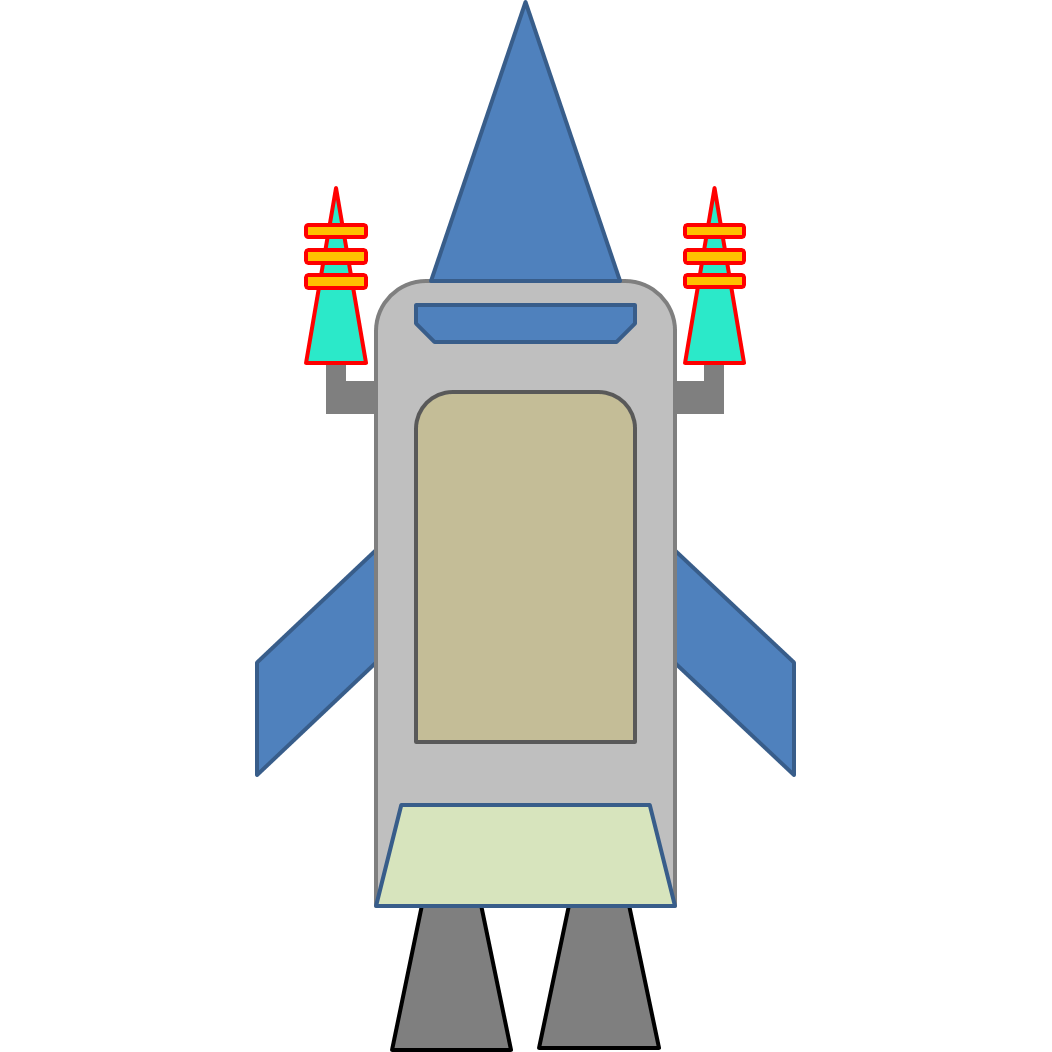
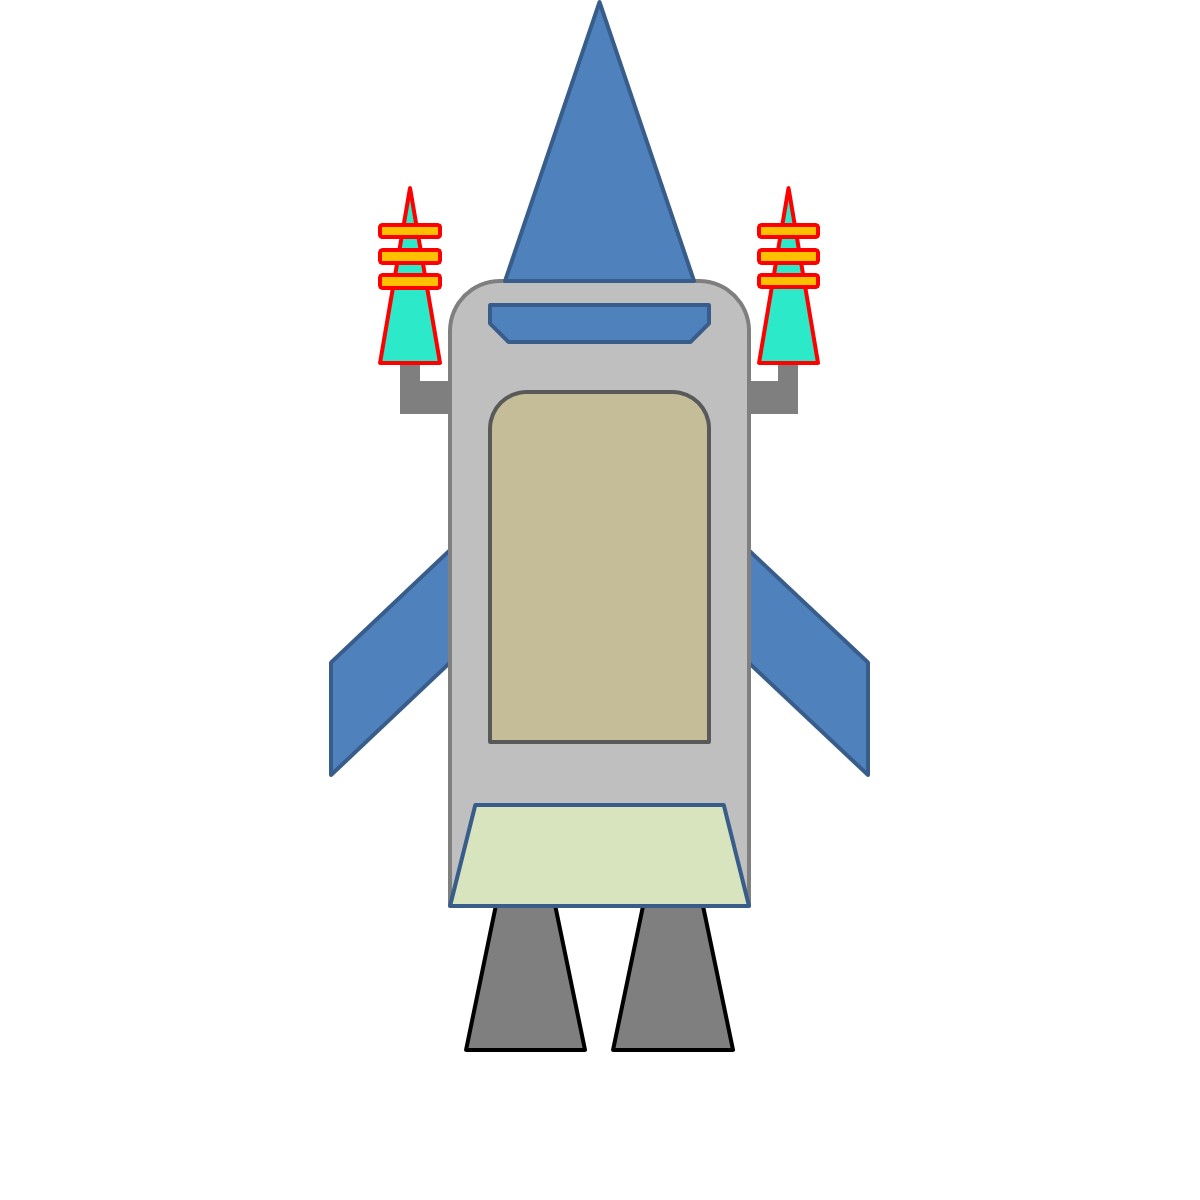
Booster graphics have been implemented. Test bed image_layer_test.py created.

Changed region(s): [[0.2433, 0.1521, 0.7605, 1.0]]

diff --git a/particle.py b/particle.py
@@ -40,19 +40,26 @@ baryonic_state.id = 0
 	
 class ship(object):
 	""" Holds ship data """
-	def __init__(self,init_ticks):		
+	def __init__(self,init_ticks,image_dict):		
 		self.thrust = .1
 		self.init_ticks = init_ticks
 		self.fire_cd = 1000 # miliseconds
 		self.last_fire = -float('inf')
 		
 		self.state = baryonic_state()		
+		self.left = False
+		self.right = False
 		
-	def update_image(self,image):
-		rec = image.get_rect().size
-		self.image = pygame.transform.scale(image,(rec[0]/10,rec[1]/10))		
+		self.image_dict = image_dict
 		
+		rocket_image = image_dict['rocket']
+		rec = rocket_image.get_rect().size
+		self.image = pygame.transform.scale(rocket_image,(rec[0]/10,rec[1]/10))
+		flame_image = image_dict['flame']
+		rec = flame_image.get_rect().size
+		self.flame_image = pygame.transform.scale(flame_image,(rec[0]/10,rec[1]/10))
 		
+
 	def prop(self):
 		self.state.prop()
 		
@@ -62,8 +69,11 @@ class ship(object):
 		#  (0,-1)  (0,0)  (0,1)
 		# (-1,-1) (-1,0) (-1,1)
 		direction = (commands[0] - commands[1], commands[3] - commands[2])
+		self.left = False
+		self.right = False
 		if (0,0) == direction:
 			return
+			
 			
 		if commands[4]:
 			# Ion thrusters
@@ -111,12 +121,14 @@ class ship(object):
 	def boost_left(self):
 		self.state.acc(self.thrust * math.cos(self.state.ori),
 					 - self.thrust * math.sin(self.state.ori))
-		self.state.rot_acc(.0005)
+		self.state.rot_acc(.00005)
+		self.right = True		
 		
 	def boost_right(self):
 		self.state.acc(self.thrust * math.cos(self.state.ori),
 					 - self.thrust * math.sin(self.state.ori))
-		self.state.rot_acc(-.0005)
+		self.state.rot_acc(-.00005)
+		self.left = True
 		
 	def boost_retro(self):
 		self.state.acc(- self.thrust/2 * math.cos(self.state.ori),
@@ -139,18 +151,28 @@ class ship(object):
 	def fire_missile(self,current_ticks):
 		if current_ticks-self.last_fire >= self.fire_cd:
 			self.last_fire = current_ticks
-			new_missile = missile()
+			new_missile = missile(self.image_dict)
 			new_missile.set_state(copy.copy(self.state))
 			return new_missile
 			
+	def get_image(self):
+		if self.left or self.right:
+			image = self.image.copy()
+			if self.left:
+				image.blit(self.flame_image,(427/10,1052/10))
+			if self.right:
+				image.blit(self.flame_image,(575/10,1052/10))
+			image = operations.rot_center(image,self.state.ori / (2*math.pi) * 360 - 90)		
+		else:
+			image = operations.rot_center(self.image,self.state.ori / (2*math.pi) * 360 - 90)		
+		return image
 		
 class missile(object):
 	"""Holds missile data """
-	def __init__(self):
+	def __init__(self,image_dict):
 		self.thrust = .5
-		self.state = baryonic_state()		
-
-	def update_image(self,image):
+		self.state = baryonic_state()	
+		image = image_dict['rocket']
 		rec = image.get_rect().size
 		self.image = pygame.transform.scale(image,(rec[0]/50,rec[1]/50))		
 		
@@ -164,6 +186,9 @@ class missile(object):
 	def boost(self):
 		self.state.vel_x += self.thrust * math.cos(self.state.ori)
 		self.state.vel_y -= self.thrust * math.sin(self.state.ori)
-
+		
+	def get_image(self):
+		image = operations.rot_center(self.image,self.state.ori / (2*math.pi) * 360 - 90)
+		return image
 
 	

diff --git a/image_layer_test.py b/image_layer_test.py
@@ -1,30 +1,13 @@
 import pygame
-import math
-import particle
-import operations
-import spaceship
 
-
-def display_particle(screen,particle):
-	state = particle.state
-	image = particle.get_image()
-	center = image.get_rect().center
-
-	screen.blit(image,(state.x-center[0],state.y-center[1]))	
-	
-def paint_engine(screen,engine):
-	for entity in engine.entities:
-		display_particle(screen,entity)
-	
-	
 def main():
 	pygame.init()
 	screen = pygame.display.set_mode((1600,900))
 	done = False
 	clock = pygame.time.Clock()
 	
-	engine = spaceship.engine(pygame.time.get_ticks())
-	
+	image = pygame.image.load('graphics/andrew_rocket.png')
+	flame = pygame.image.load('graphics/lucy_flame.png')
 	while not done: 
 	
 		pressed = pygame.key.get_pressed()
@@ -47,12 +30,14 @@ def main():
 					print 'cheese'
 				elif event.button == 3: # right click shrinks radius 
 					print 'balls'
-		
-		engine.step(pygame.time.get_ticks(),pressed)
+
 		
 		screen.fill((30,30,30))
-		
-		paint_engine(screen,engine)
+		x = 0
+		y = -300
+		new_image = image.copy()
+		new_image.blit(flame,(575,1052))
+		screen.blit(new_image,(x,y))
 		pygame.display.flip()
 		clock.tick(60)
 		

diff --git a/spaceship.py b/spaceship.py
@@ -7,8 +7,7 @@ class engine(object):
 		self.entities = []
 		self.init_tick = init_tick
 		self.load_images()
-		self.ship = particle.ship(init_tick)
-		self.ship.update_image(self.image_dict['rocket'])
+		self.ship = particle.ship(init_tick,self.image_dict)
 		self.entities.append(self.ship)
 		
 	def load_images(self):
@@ -27,7 +26,6 @@ class engine(object):
 		if pressed[pygame.K_SPACE]: 
 			new_missile = self.ship.fire_missile(pygame.time.get_ticks())
 			if new_missile is not None:
-				new_missile.update_image(self.image_dict['missile'])
 				self.entities.append(new_missile)
 				
 		for entity in self.entities:

diff --git a/graphics_processor.py b/graphics_processor.py
@@ -1,5 +1,5 @@
 from scipy import misc
-mis = misc.imread('graphics/lucy_rocket_sleeping.png')
+mis = misc.imread('graphics/andrew_rocket.png')
 import matplotlib.pyplot as plt
 plt.imshow(mis)
 plt.show()
